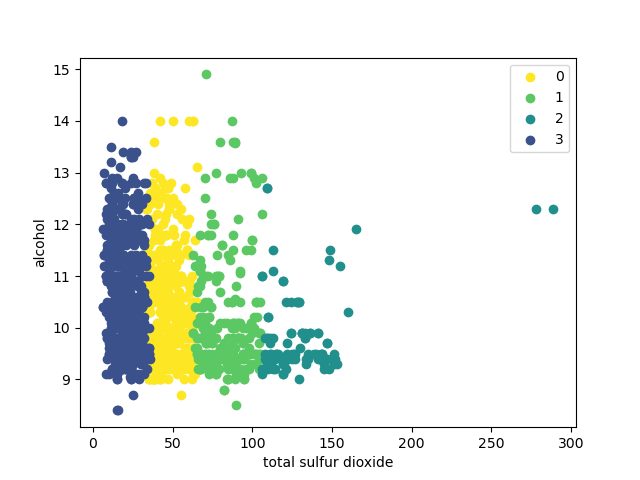
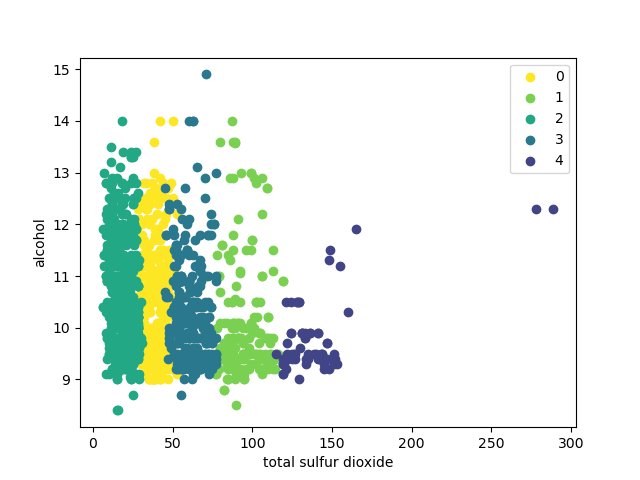
Clustering accuracy

diff --git a/UnsupervisedLearning/KMeanClustering.py b/UnsupervisedLearning/KMeanClustering.py
@@ -12,19 +12,24 @@ class KMeanClustering:
     def cluster(self, data_file):
         x,y = extractData(data_file)
         inertia = []
-        for k in range(1,10) :
+        kmeans_accuracy = {}
+        k_range = [1,2,5,10,15]
+        for k in k_range :
             km = KMeans(n_clusters=k,
                              n_init=10,
                              random_state=123)
             km.fit(x)
             inertia.append(km.inertia_)
+            kmeans_accuracy[k]=self.cluster_accuracy(y,km.predict(x))
 
-        plt.plot(range(1,10), inertia, 'bx-')
+        plt.plot(k_range, inertia, 'bx-')
         plt.xlabel('k')
         plt.ylabel('Inertia')
         plt.savefig('image/kmeans_clusters.png')
 
-        k = 4
+        self.plot_score_curve(kmeans_accuracy,"kmeans_accuracy")
+
+        k = 5
         km = KMeans(n_clusters=k,random_state=123)
         km_val = km.fit(x)
         x['cluster'] = km.predict(x)
@@ -41,6 +46,7 @@ class KMeanClustering:
             plt.xlabel(c)
             plt.ylabel('alcohol')
             plt.savefig('image/kmeans_'+str(ci)+'.png')
+            plt.close()
             ci = ci+1
 
         bic = []
@@ -58,6 +64,7 @@ class KMeanClustering:
         plt.xlabel('n_components')
         plt.ylabel('BIC')
         plt.savefig('image/em_cluster_comp.png')
+        plt.close()
 
         em_cluster = best_em.fit_predict(x.iloc[:,:-1])
         x['em_cluster'] = em_cluster
@@ -82,7 +89,27 @@ class KMeanClustering:
             mask = cluster_label == cl
             target = Counter(original[mask]).most_common(1)[0][0]
             prediction[mask] = target
-        return accuracy_score(original, cluster_label)
+        return accuracy_score(original, prediction)
+
+    def plot_score_curve(self, data, title):
+
+        fig = plt.figure()
+
+        num_clusters = list(data.keys())
+        score_clusters = list(data.values())
+
+        ax = fig.add_subplot(111, xlabel='# Clusters', ylabel='Score', title=title)
+
+        ax.plot(num_clusters, score_clusters, 'o-', color="b",
+                label="Num of Clusters")
+        ax.set_xticks(num_clusters)
+
+        ax.legend(loc="best")
+        fig.savefig("image/" + title + ".png")  # save the figure to file
+        plt.close(fig)
+        return plt
+
+
 def main():
     kmeans = KMeanClustering()
     kmeans.cluster("data/winequality-red.csv")
